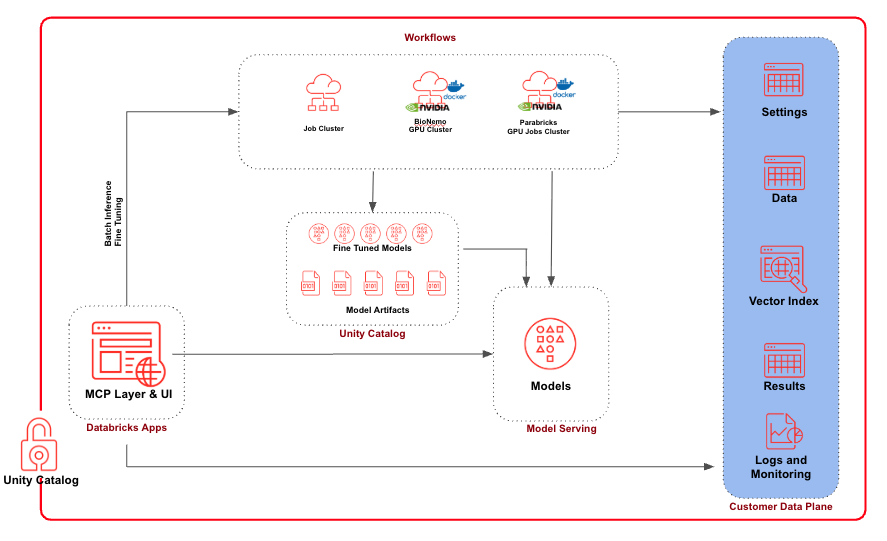
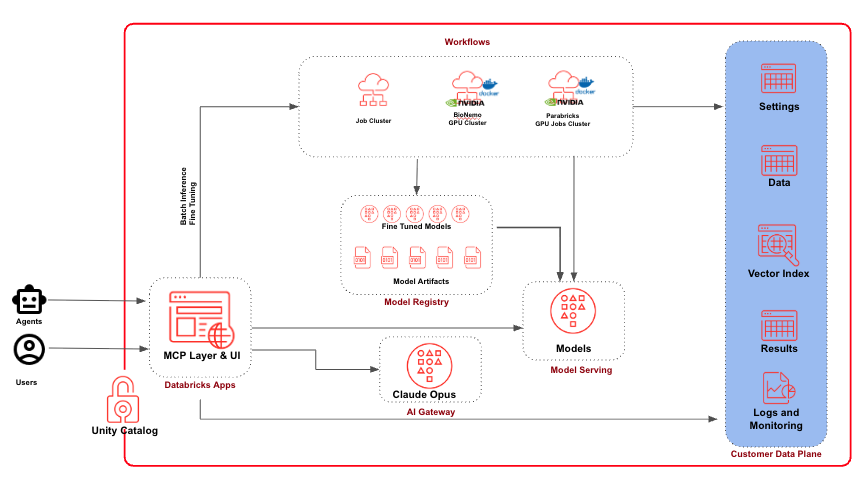
Merge pull request #161 from databricks-industry-solutions/docs-kermt-and-architecture
Docs kermt and architecture

Pull request: Docs kermt and architecture

diff --git a/modules/core/app/backend/documentation/kermt_admet.md b/modules/core/app/backend/documentation/kermt_admet.md
@@ -20,6 +20,13 @@ ADMET (the same pattern as TEDDY running alongside SCimilarity for cell-type ann
 
 ## How to Use
 
+> **Live out of the box.** Deploying the KERMT submodule
+> (`./deploy.sh small_molecule <cloud> --only-submodule kermt/kermt_v2`) automatically runs three jobs in
+> sequence — **register** (stage GROVERbase + the bundled TDC ClinTox sample), **fine-tune** (on that
+> ClinTox sample), and **deploy** — so the `kermt_admet` endpoint is serving the moment the deploy finishes,
+> with no manual steps. (This does add a full GPU fine-tune to the deploy, so it takes a while.) The UI flow
+> below is for fine-tuning on **your own** assay and (re)deploying that model.
+
 ### Fine-tune (NVIDIA BioNeMo → **KERMT**)
 
 1. The train/val/test CSV paths are pre-filled with the bundled TDC **ClinTox** sample
@@ -35,7 +42,8 @@ ADMET (the same pattern as TEDDY running alongside SCimilarity for cell-type ann
 
 4. Pick a completed fine-tuned model from the dropdown and click **Deploy**. This registers it as the
    `kermt_admet` UC model and (re)deploys the `gwb_*_kermt_admet_endpoint` serving endpoint. *(The GPU
-   endpoint build takes ~30–60 min.)*
+   endpoint build takes ~30–60 min.)* When no fine-tune is specified — as in the automatic init-time deploy
+   above — the deploy step picks the **latest active** fine-tune from `kermt_weights`.
 
 ### Use in ADMET & Safety
 
@@ -83,10 +91,11 @@ collator sanitizes them (`np.nan_to_num`) so they don't propagate to NaN model o
 
 ### Key Files
 
-- `modules/small_molecule/kermt/kermt_v1/kermt_src/` — vendored KERMT (pinned commit) + lazy-import/NaN patches
+- `modules/small_molecule/kermt/kermt_v2/kermt_src/` — vendored KERMT (pinned commit) + lazy-import/NaN patches
+- `…/kermt_v2/deploy.sh` — submodule deploy: runs `register_kermt` → `kermt_finetune` → `kermt_deploy` in sequence
 - `…/notebooks/01_register_kermt.py` — stage GROVERbase + `kermt_weights` table + TDC sample
 - `…/notebooks/02_kermt_finetune.py` — fine-tune orchestrator (MLflow status, writes weights)
-- `…/notebooks/03_kermt_register_serving.py` — PyFunc + register + deploy endpoint
+- `…/notebooks/03_kermt_register_serving.py` — PyFunc + register + deploy endpoint (falls back to latest active `ft_id`)
 - `modules/core/app/backend/app/services/kermt.py` — dispatch + search + list-weights
 - `modules/core/app/backend/app/services/admet_safety.py` — `predict_kermt`
 - `modules/core/app/frontend/src/components/KermtFinetuneTab.tsx` + `AdmetSafetyTab.tsx`